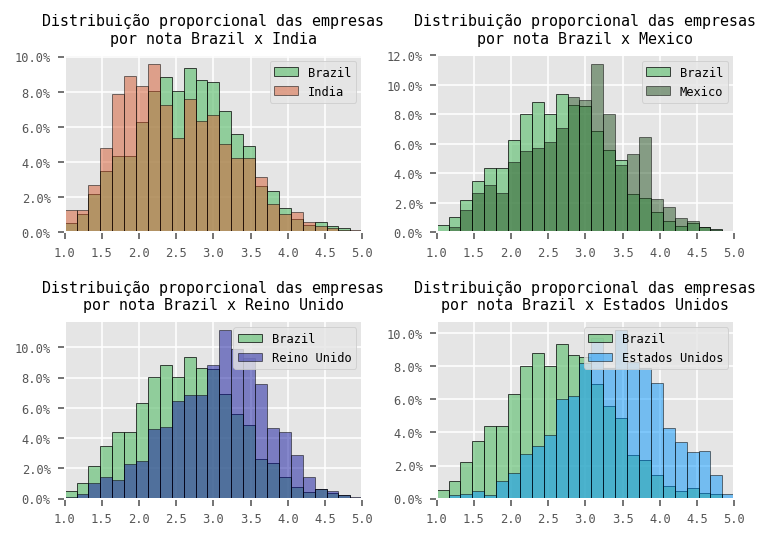
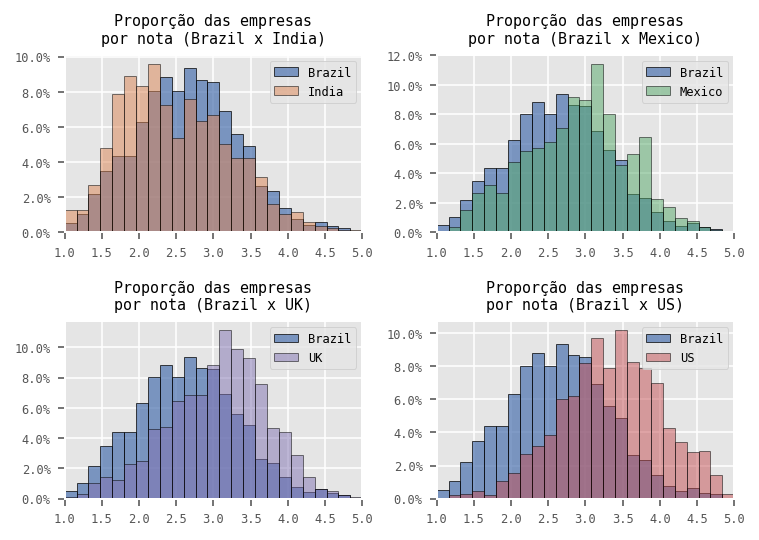
Plots atualizados

diff --git a/codigo_limpo_sem_conflitos.py b/codigo_limpo_sem_conflitos.py
@@ -100,7 +100,8 @@ plt.xlim(0, 5)
 plt.show()
 
 
-# PASSO 6 - Criando Histogramas para comparar a distribuição das notas 
+# PASSO 6 - Criando Histogramas para comparar a distribuição das notas
+# Aqui irei importar  a classe "Histrogramas" que possui as funções definidas nela
 
 separações = np.linspace(1, 5, 26)  # criando intervalos do histrograma de 1 a 5 e repartições que são de 25 pedaços iguais ( n + 1)
 